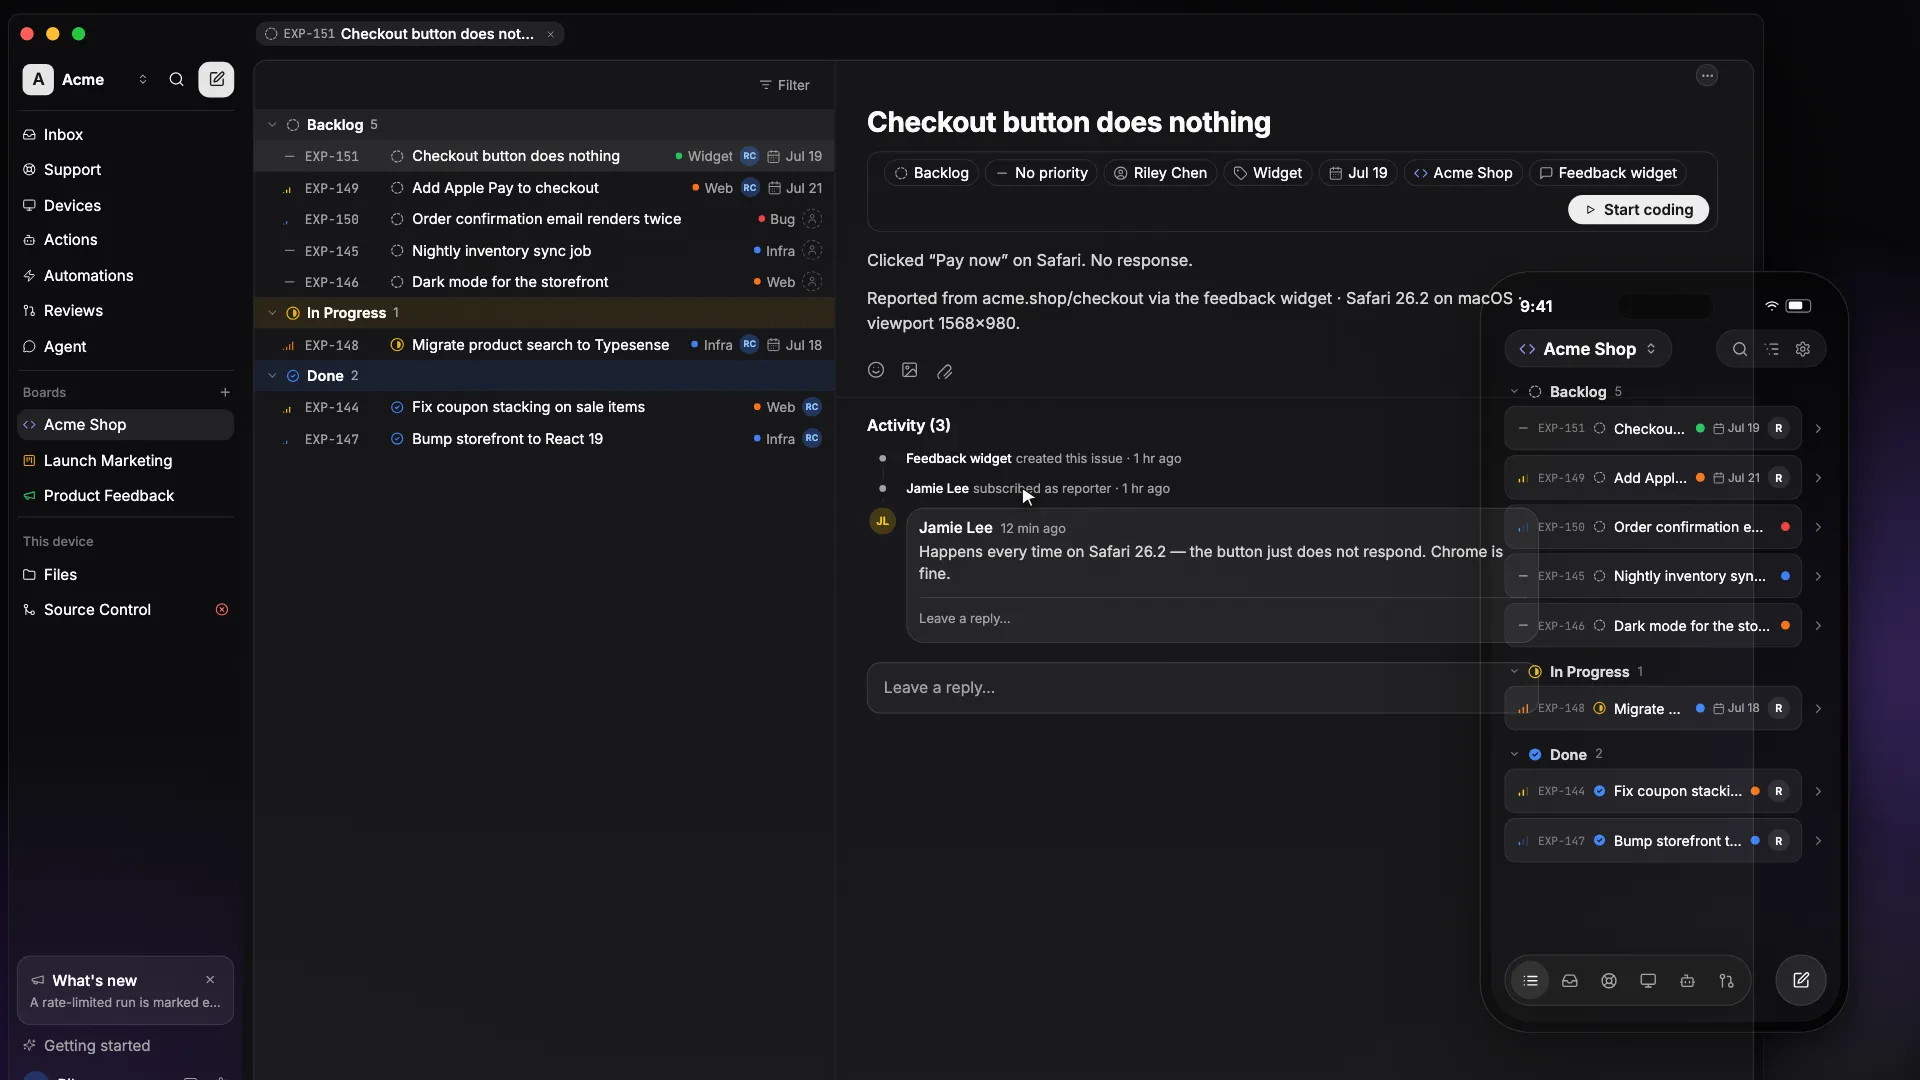
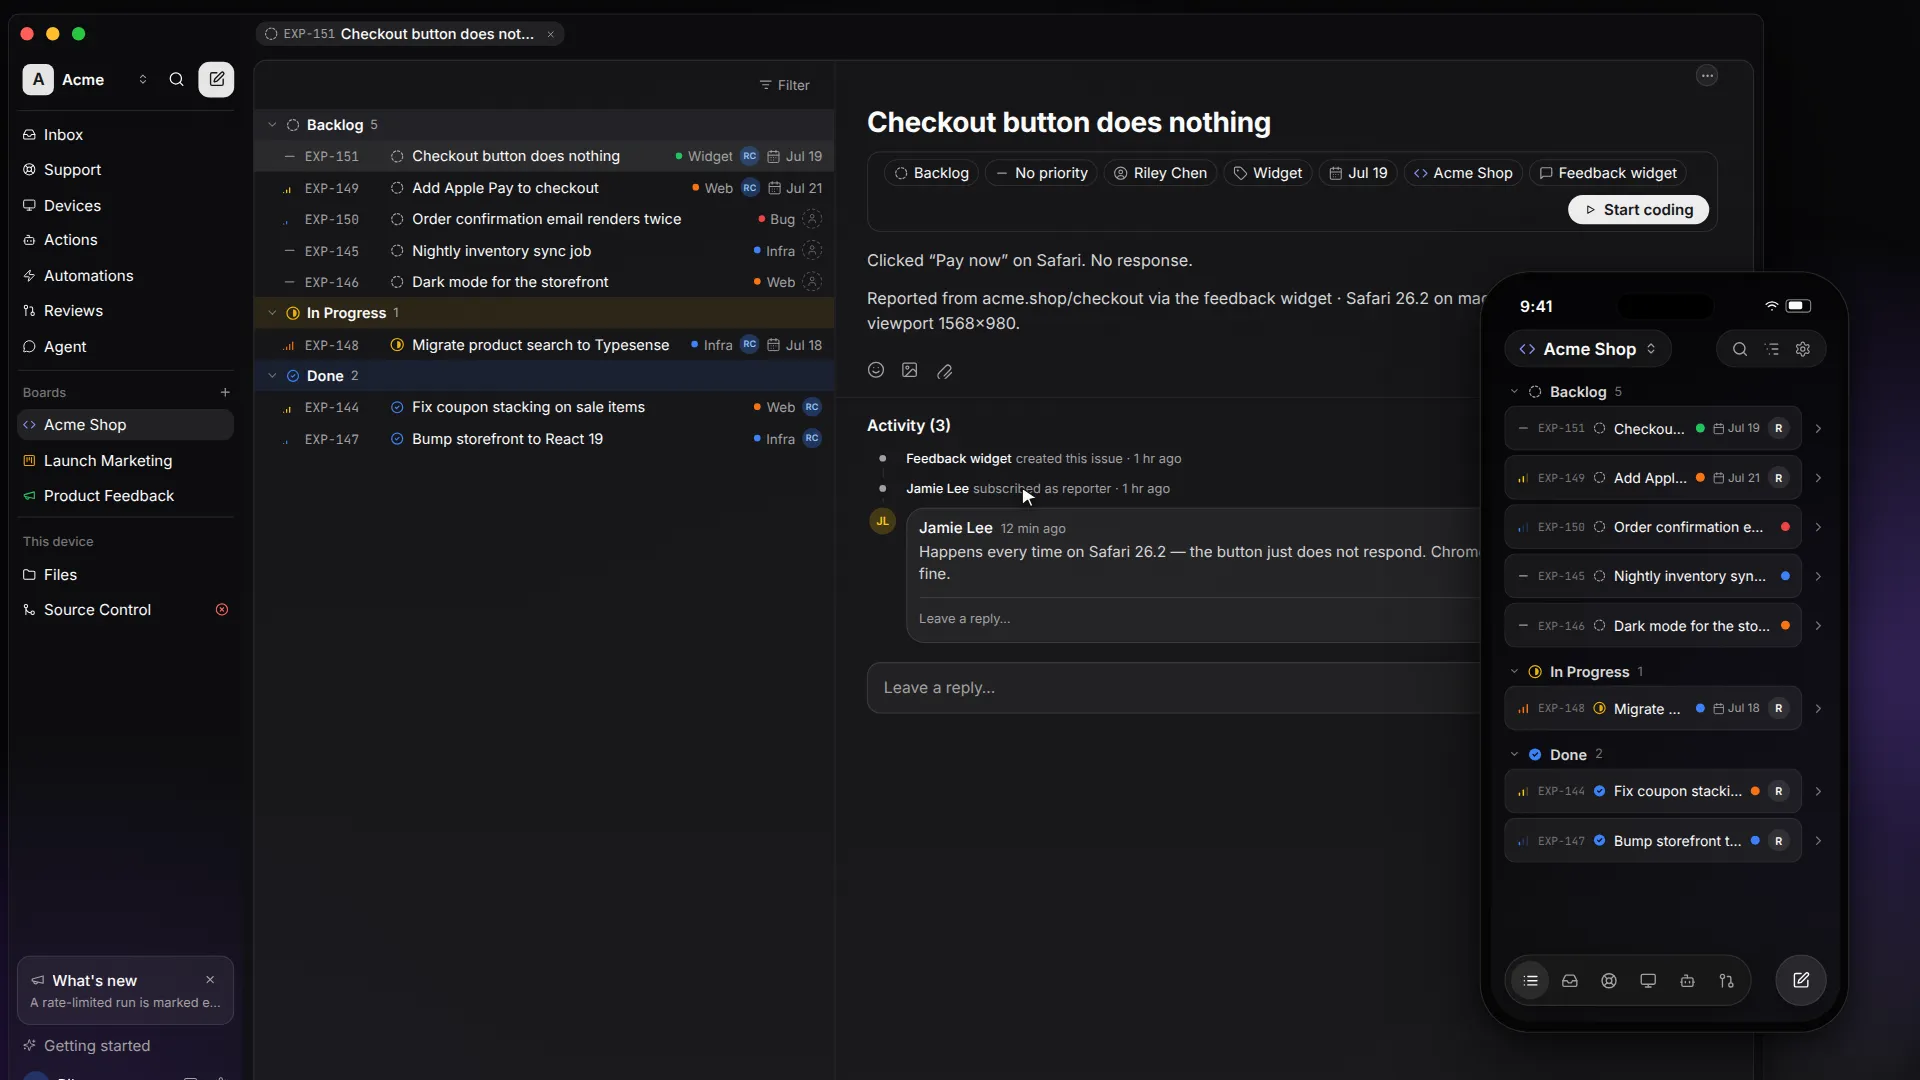
EXP-823: the hero video's phone is no longer see-through
The IDE window's parts carry z-indices (cutout panel 5, rail 10, title bar
20) and `overflow: hidden` does not confine them, so they painted in the
ROOT stacking context — above the phone each segment composes after the
chassis. The panel's translucent fill then let the desktop's issue detail
(the comment card, the diff) bleed through the device: in the opener and in
review & merge the phone read as transparent.

The chassis now owns its stacking context (`isolation: isolate`), so DOM
order alone decides and anything composed after it floats above the whole
window. BrowserChassis gets the same treatment (its widget panel is zIndex
30). Clip 2's phone no longer needs its compensating zIndex, and the
checked-in wide poster (boardlive f0) is re-rendered with the solid phone.

diff --git a/apps/marketing/src/movie/ships/rig.tsx b/apps/marketing/src/movie/ships/rig.tsx
@@ -133,6 +133,13 @@ export const WindowChassis: React.FC<{
       boxShadow: "0 40px 120px rgba(0,0,0,0.6), 0 8px 24px rgba(0,0,0,0.4)",
       backgroundColor: C.canvas,
       overflow: "hidden",
+      // EXP-823: the chassis OWNS its stacking context. Its parts carry
+      // z-indices (cutout panel 5, rail 10, title bar 20) and `overflow`
+      // alone does not confine them, so without this the translucent panel
+      // painted OVER a phone composed after the window — the device read as
+      // see-through. Isolated, DOM order alone decides: anything a segment
+      // places after the chassis floats above the whole window.
+      isolation: "isolate",
       filter: dim > 0 ? `brightness(${1 - dim})` : undefined,
     }}
   >

diff --git a/apps/marketing/src/movie/closedloop/segments/codeeverywhere.tsx b/apps/marketing/src/movie/closedloop/segments/codeeverywhere.tsx
@@ -271,13 +271,13 @@ export const CodeEverywhereSegment: React.FC<SegmentProps> = ({
           </WindowChassis>
 
           {/* the phone, floating over the window's left edge (comp coords).
-              zIndex outranks the rail/titlebar (chrome z 10–20) it overlaps. */}
+              It composes AFTER the chassis, which isolates its own stacking
+              (EXP-823), so the whole window stays behind it. */}
           <div
             style={{
               position: "absolute",
               left: PHONE_POS.x,
               top: PHONE_POS.y,
-              zIndex: 30,
               opacity: phoneRise,
               translate: `0px ${(1 - phoneRise) * 46}px`,
             }}

diff --git a/apps/marketing/src/movie/closedloop/surfaces/sitemock.tsx b/apps/marketing/src/movie/closedloop/surfaces/sitemock.tsx
@@ -122,6 +122,10 @@ export const BrowserChassis: React.FC<{ children: React.ReactNode }> = ({ childr
       boxShadow: "0 40px 120px rgba(0,0,0,0.6), 0 8px 24px rgba(0,0,0,0.4)",
       backgroundColor: S.page,
       overflow: "hidden",
+      // EXP-823: own the stacking context, like WindowChassis — the widget
+      // panel inside carries zIndex 30 and must not reach over a phone
+      // composed after the browser.
+      isolation: "isolate",
       fontFamily: UI_FONT,
     }}
   >
